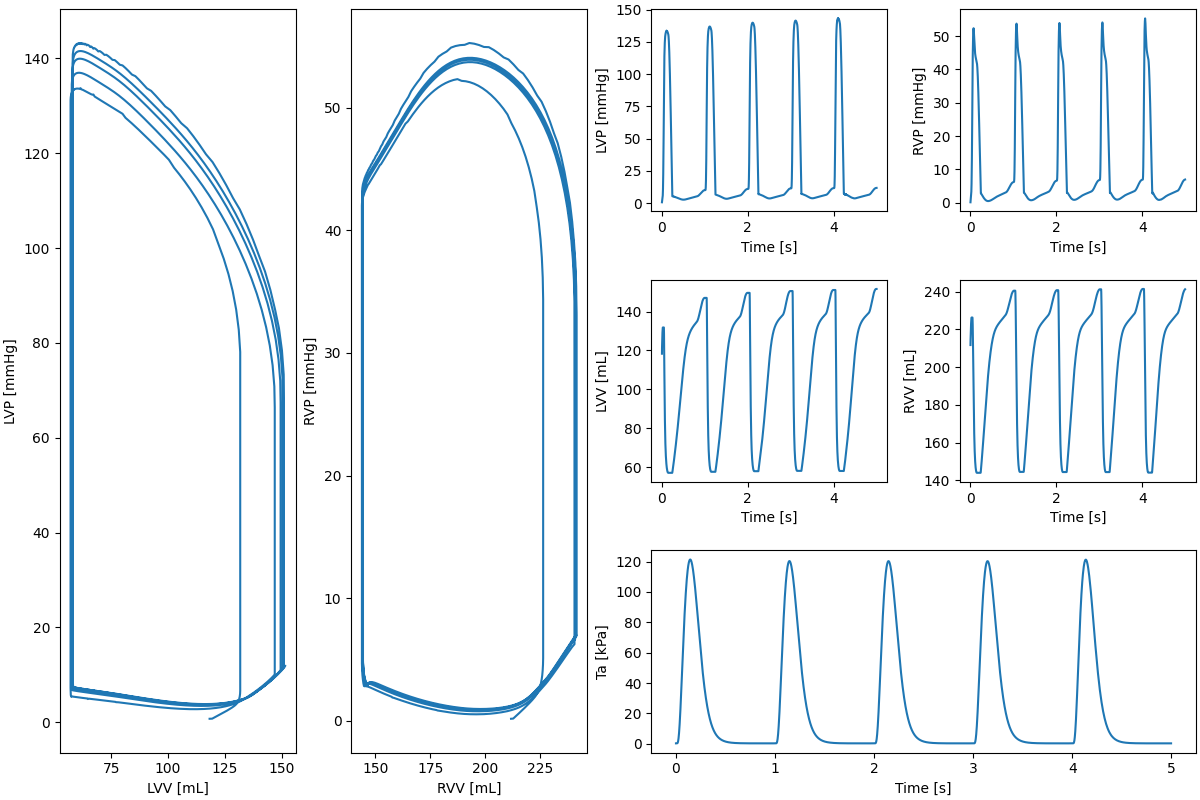
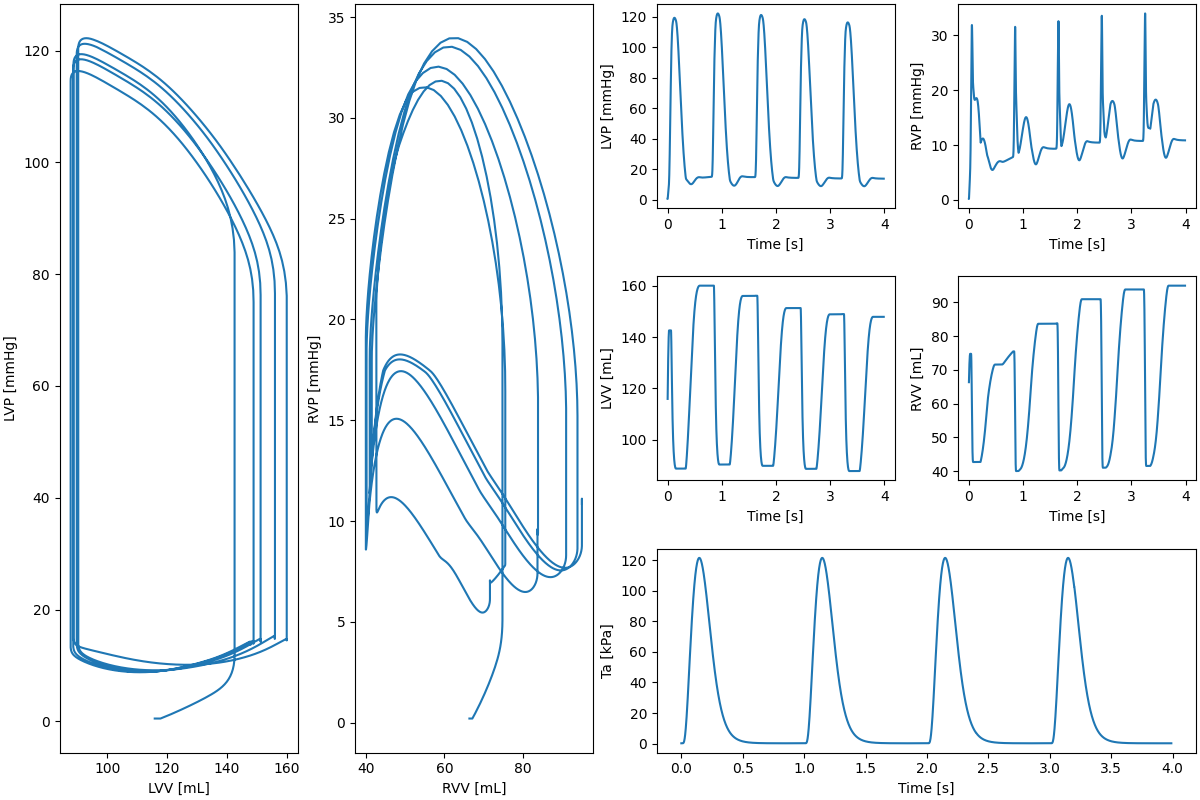
Merge pull request #170 from finsberg/update-biv-docs
Update biv docs

Pull request: Update biv docs
Update demos using the new biv geometry and update the corresponding results shown

diff --git a/demo/geometries/biv_ellipsoid.py b/demo/geometries/biv_ellipsoid.py
@@ -44,16 +44,6 @@ import pulse
 #
 # We generate the mesh and fibers if they don't already exist.
 #
-# ### 1. Mesh Generation
-# `cardiac_geometries.mesh.biv_ellipsoid` creates the mesh with markers for:
-# * **LV_ENDO_FW**: LV Endocardium Free Wall
-# * **LV_SEPTUM**: LV Septum
-# * **RV_ENDO_FW**: RV Endocardium Free Wall
-# * **RV_SEPTUM**: RV Septum
-# * **LV_EPI_FW**: LV Epicardium Free Wall
-# * **RV_EPI_FW**: RV Epicardium Free Wall
-# * **BASE**: Base
-#
 # ### 2. Fiber Generation (LDRB)
 # The LDRB algorithm solves Laplace equations to define transmural and apicobasal coordinates.
 # Based on these coordinates, it assigns fiber angles (e.g., +60 to -60 degrees transmurally).
@@ -61,24 +51,21 @@ import pulse
 outdir = Path("biv_ellipsoid")
 outdir.mkdir(parents=True, exist_ok=True)
 geodir = outdir / "geometry"
-
 if not geodir.exists():
     # Generate mesh
     geo = cardiac_geometries.mesh.biv_ellipsoid(outdir=geodir)
-
-    # Map mesh markers to the format expected by LDRB
-    markers = cardiac_geometries.mesh.transform_biv_markers(geo.markers)
 
     # Run LDRB algorithm
     system = ldrb.dolfinx_ldrb(
         mesh=geo.mesh,
         ffun=geo.ffun,
-        markers=markers,
+        markers=geo.markers,
         alpha_endo_lv=60,  # Fiber angle at LV endocardium
         alpha_epi_lv=-60,  # Fiber angle at LV epicardium
         beta_endo_lv=0,    # Sheet angle (0 for now)
         beta_epi_lv=0,
         fiber_space="P_2",
+        create_fibers=True,
     )
 
     # Save microstructure to XDMF/H5
@@ -92,49 +79,6 @@ if not geodir.exists():
 geo = cardiac_geometries.geometry.Geometry.from_folder(
     comm=MPI.COMM_WORLD,
     folder=geodir,
-)
-
-# ### Marker Consolidation
-# We group the detailed surface markers into broader categories for applying boundary conditions.
-#
-# * **ENDO_LV**: All LV endocardial surfaces (Free Wall + Septum).
-# * **ENDO_RV**: All RV endocardial surfaces (Free Wall + Septum).
-# * **EPI**: All epicardial surfaces.
-# * **BASE**: The base.
-
-markers = {"ENDO_LV": [1, 2], "ENDO_RV": [2, 2], "BASE": [3, 2], "EPI": [4, 2]}
-
-# Create a new marker array based on the old one
-marker_values = geo.ffun.values.copy()
-marker_indices = geo.ffun.indices
-
-# Helper to update markers
-def update_marker(old_name, new_id):
-    old_id = geo.markers[old_name][0]
-    marker_values[np.isin(marker_indices, geo.ffun.find(old_id))] = new_id
-
-# Update LV Endo
-update_marker("LV_ENDO_FW", markers["ENDO_LV"][0])
-update_marker("LV_SEPTUM", markers["ENDO_LV"][0])
-
-# Update RV Endo
-update_marker("RV_ENDO_FW", markers["ENDO_RV"][0])
-update_marker("RV_SEPTUM", markers["ENDO_RV"][0])
-
-# Update Base
-update_marker("BASE", markers["BASE"][0])
-
-# Update Epi
-update_marker("LV_EPI_FW", markers["EPI"][0])
-update_marker("RV_EPI_FW", markers["EPI"][0])
-
-# Assign back to geometry object
-geo.markers = markers
-geo.ffun = dolfinx.mesh.meshtags(
-    geo.mesh,
-    geo.ffun.dim,
-    geo.ffun.indices,
-    marker_values,
 )
 
 # Scale the geometry from mm to meters (approximate scale factor)
@@ -195,10 +139,10 @@ model = pulse.CardiacModel(
 # * $P_{RV}$ on $\Gamma_{endo, RV}$
 
 lvp = dolfinx.fem.Constant(geometry.mesh, dolfinx.default_scalar_type(0.0))
-neumann_lv = pulse.NeumannBC(traction=lvp, marker=geometry.markers["ENDO_LV"][0])
+neumann_lv = pulse.NeumannBC(traction=lvp, marker=geometry.markers["LV"][0])
 
 rvp = dolfinx.fem.Constant(geometry.mesh, dolfinx.default_scalar_type(0.0))
-neumann_rv = pulse.NeumannBC(traction=rvp, marker=geometry.markers["ENDO_RV"][0])
+neumann_rv = pulse.NeumannBC(traction=rvp, marker=geometry.markers["RV"][0])
 
 # ### Robin BC: Pericardial Constraint
 # We model the pericardium as a spring-like boundary condition on the epicardium.

diff --git a/demo/time_dependent/time_dependent_land_circ_biv.py b/demo/time_dependent/time_dependent_land_circ_biv.py
@@ -61,43 +61,8 @@ geo = cardiac_geometries.geometry.Geometry.from_folder(
     folder=geodir,
 )
 # Scale the geometry to meters and adjust the size so that LV and RV volumes are reasonable
-geo.mesh.geometry.x[:] *= 1.5e-2
+geo.mesh.geometry.x[:] *= 1.6e-2
 
-# Now we need to redefine the markers to have so that facets on the endo- and epicardium combine both
-# free wall and the septum.
-
-markers = {"ENDO_LV": [1, 2], "ENDO_RV": [2, 2], "BASE": [3, 2], "EPI": [4, 2]}
-marker_values = geo.ffun.values.copy()
-marker_values[
-    np.isin(geo.ffun.indices, geo.ffun.find(geo.markers["LV_ENDO_FW"][0]))
-] = markers["ENDO_LV"][0]
-marker_values[np.isin(geo.ffun.indices, geo.ffun.find(geo.markers["LV_SEPTUM"][0]))] = (
-    markers["ENDO_LV"][0]
-)
-marker_values[
-    np.isin(geo.ffun.indices, geo.ffun.find(geo.markers["RV_ENDO_FW"][0]))
-] = markers["ENDO_RV"][0]
-marker_values[np.isin(geo.ffun.indices, geo.ffun.find(geo.markers["RV_SEPTUM"][0]))] = (
-    markers["ENDO_RV"][0]
-)
-marker_values[np.isin(geo.ffun.indices, geo.ffun.find(geo.markers["BASE"][0]))] = (
-    markers["BASE"][0]
-)
-marker_values[np.isin(geo.ffun.indices, geo.ffun.find(geo.markers["LV_EPI_FW"][0]))] = (
-    markers["EPI"][0]
-)
-marker_values[np.isin(geo.ffun.indices, geo.ffun.find(geo.markers["RV_EPI_FW"][0]))] = (
-    markers["EPI"][0]
-)
-
-geo.markers = markers
-ffun = dolfinx.mesh.meshtags(
-    geo.mesh,
-    geo.ffun.dim,
-    geo.ffun.indices,
-    marker_values,
-)
-geo.ffun = ffun
 
 geometry = pulse.HeartGeometry.from_cardiac_geometries(
     geo, metadata={"quadrature_degree": 6},
@@ -131,7 +96,7 @@ model = pulse.CardiacModel(
 )
 
 alpha_epi = pulse.Variable(
-    dolfinx.fem.Constant(geometry.mesh, dolfinx.default_scalar_type(1e8)),
+    dolfinx.fem.Constant(geometry.mesh, dolfinx.default_scalar_type(1e6)),
     "Pa / m",
 )
 robin_epi = pulse.RobinBC(value=alpha_epi, marker=geometry.markers["EPI"][0])
@@ -142,17 +107,17 @@ alpha_base = pulse.Variable(
 robin_base = pulse.RobinBC(value=alpha_base, marker=geometry.markers["BASE"][0])
 
 
-lvv_initial = geo.mesh.comm.allreduce(geometry.volume("ENDO_LV"), op=MPI.SUM)
+lvv_initial = geo.mesh.comm.allreduce(geometry.volume("LV"), op=MPI.SUM)
 lv_volume = dolfinx.fem.Constant(
     geometry.mesh, dolfinx.default_scalar_type(lvv_initial),
 )
-lv_cavity = pulse.problem.Cavity(marker="ENDO_LV", volume=lv_volume)
+lv_cavity = pulse.problem.Cavity(marker="LV", volume=lv_volume)
 
-rvv_initial = geo.mesh.comm.allreduce(geometry.volume("ENDO_RV"), op=MPI.SUM)
+rvv_initial = geo.mesh.comm.allreduce(geometry.volume("RV"), op=MPI.SUM)
 rv_volume = dolfinx.fem.Constant(
     geometry.mesh, dolfinx.default_scalar_type(rvv_initial),
 )
-rv_cavity = pulse.problem.Cavity(marker="ENDO_RV", volume=rv_volume)
+rv_cavity = pulse.problem.Cavity(marker="RV", volume=rv_volume)
 
 
 cavities = [lv_cavity, rv_cavity]
@@ -284,7 +249,7 @@ Ta_history = []
 
 def callback(model, i: int, t: float, save=True):
     Ta_history.append(get_activation(t))
-    if save and i % 100 == 0:
+    if save and i % 10 == 0:
         io4dolfinx.write_function(filename, problem.u, time=t, name="displacement")
         vtx.write(t)
 
@@ -363,18 +328,17 @@ def p_BiV_func(V_LV, V_RV, t):
 mL = circulation.units.ureg("mL")
 add_units = False
 lvv_init = (
-    geo.mesh.comm.allreduce(geometry.volume("ENDO_LV", u=problem.u), op=MPI.SUM)
+    geo.mesh.comm.allreduce(geometry.volume("LV", u=problem.u), op=MPI.SUM)
     * 1e6
     * 1.0
 )  # Increase the volume by 5%
 rvv_init = (
-    geo.mesh.comm.allreduce(geometry.volume("ENDO_RV", u=problem.u), op=MPI.SUM)
+    geo.mesh.comm.allreduce(geometry.volume("RV", u=problem.u), op=MPI.SUM)
     * 1e6
     * 1.0
 )  # Increase the volume by 5%
 logger.info(f"Initial volume (LV): {lvv_init} mL and (RV): {rvv_init} mL")
 init_state = {"V_LV": lvv_initial * 1e6 * mL, "V_RV": rvv_initial * 1e6 * mL}
-
 
 circulation_model_3D = circulation.regazzoni2020.Regazzoni2020(
     add_units=add_units,
@@ -385,6 +349,7 @@ circulation_model_3D = circulation.regazzoni2020.Regazzoni2020(
     outdir=outdir,
     initial_state=init_state,
 )
+# exit()
 # Set end time for early stopping if running in CI
 end_time = 2 * dt if os.getenv("CI") else None
 circulation_model_3D.solve(

diff --git a/demo/time_dependent/time_dependent_bestel_biv.py b/demo/time_dependent/time_dependent_bestel_biv.py
@@ -53,31 +53,10 @@ geo = cardiac_geometries.geometry.Geometry.from_folder(
 
 geo.mesh.geometry.x[:] *= 1.5e-2
 
-# Now we need to redefine the markers to have so that facets on the endo- and epicardium combine both
-# free wall and the septum.
-
-markers = {"ENDO_LV": [1, 2], "ENDO_RV": [2, 2], "BASE": [3, 2], "EPI": [4, 2]}
-marker_values = geo.ffun.values.copy()
-marker_values[np.isin(geo.ffun.indices, geo.ffun.find(geo.markers["LV_ENDO_FW"][0]))] = markers["ENDO_LV"][0]
-marker_values[np.isin(geo.ffun.indices, geo.ffun.find(geo.markers["LV_SEPTUM"][0]))] = markers["ENDO_LV"][0]
-marker_values[np.isin(geo.ffun.indices, geo.ffun.find(geo.markers["RV_ENDO_FW"][0]))] = markers["ENDO_RV"][0]
-marker_values[np.isin(geo.ffun.indices, geo.ffun.find(geo.markers["RV_SEPTUM"][0]))] = markers["ENDO_RV"][0]
-marker_values[np.isin(geo.ffun.indices, geo.ffun.find(geo.markers["BASE"][0]))] = markers["BASE"][0]
-marker_values[np.isin(geo.ffun.indices, geo.ffun.find(geo.markers["LV_EPI_FW"][0]))] = markers["EPI"][0]
-marker_values[np.isin(geo.ffun.indices, geo.ffun.find(geo.markers["RV_EPI_FW"][0]))] = markers["EPI"][0]
-geo.markers = markers
-ffun = dolfinx.mesh.meshtags(
-    geo.mesh,
-    geo.ffun.dim,
-    geo.ffun.indices,
-    marker_values,
-)
-geo.ffun = ffun
-
 # We create the geometry object and print the volumes of the LV and RV cavities
 
 geometry = pulse.HeartGeometry.from_cardiac_geometries(geo, metadata={"quadrature_degree": 6})
-print(geometry.volume("ENDO_LV") * 1e6, geometry.volume("ENDO_RV") * 1e6)
+print(geometry.volume("LV") * 1e6, geometry.volume("RV") * 1e6)
 
 material_params = pulse.HolzapfelOgden.orthotropic_parameters()
 material = pulse.HolzapfelOgden(f0=geo.f0, s0=geo.s0, **material_params)  # type: ignore
@@ -96,10 +75,10 @@ model = pulse.CardiacModel(
 # One difference with the LV example is that we now have two different pressure boundary conditions, one for the LV and one for the RV
 
 traction_lv = pulse.Variable(dolfinx.fem.Constant(geometry.mesh, dolfinx.default_scalar_type(0.0)), "Pa")
-neumann_lv = pulse.NeumannBC(traction=traction_lv, marker=geometry.markers["ENDO_LV"][0])
+neumann_lv = pulse.NeumannBC(traction=traction_lv, marker=geometry.markers["LV"][0])
 
 traction_rv = pulse.Variable(dolfinx.fem.Constant(geometry.mesh, dolfinx.default_scalar_type(0.0)), "Pa")
-neumann_rv = pulse.NeumannBC(traction=traction_rv, marker=geometry.markers["ENDO_RV"][0])
+neumann_rv = pulse.NeumannBC(traction=traction_rv, marker=geometry.markers["RV"][0])
 
 # Otherwize we have the same Robin boundary conditions as in the LV example
 
@@ -204,8 +183,8 @@ vtx = dolfinx.io.VTXWriter(geometry.mesh.comm, outdir / "displacement.bp", [prob
 vtx.write(0.0)
 
 volume_form = geometry.volume_form(u=problem.u)
-lv_volume_form = dolfinx.fem.form(volume_form * geometry.ds(geometry.markers["ENDO_LV"][0]))
-rv_volume_form = dolfinx.fem.form(volume_form * geometry.ds(geometry.markers["ENDO_RV"][0]))
+lv_volume_form = dolfinx.fem.form(volume_form * geometry.ds(geometry.markers["LV"][0]))
+rv_volume_form = dolfinx.fem.form(volume_form * geometry.ds(geometry.markers["RV"][0]))
 
 lv_volumes = []
 rv_volumes = []